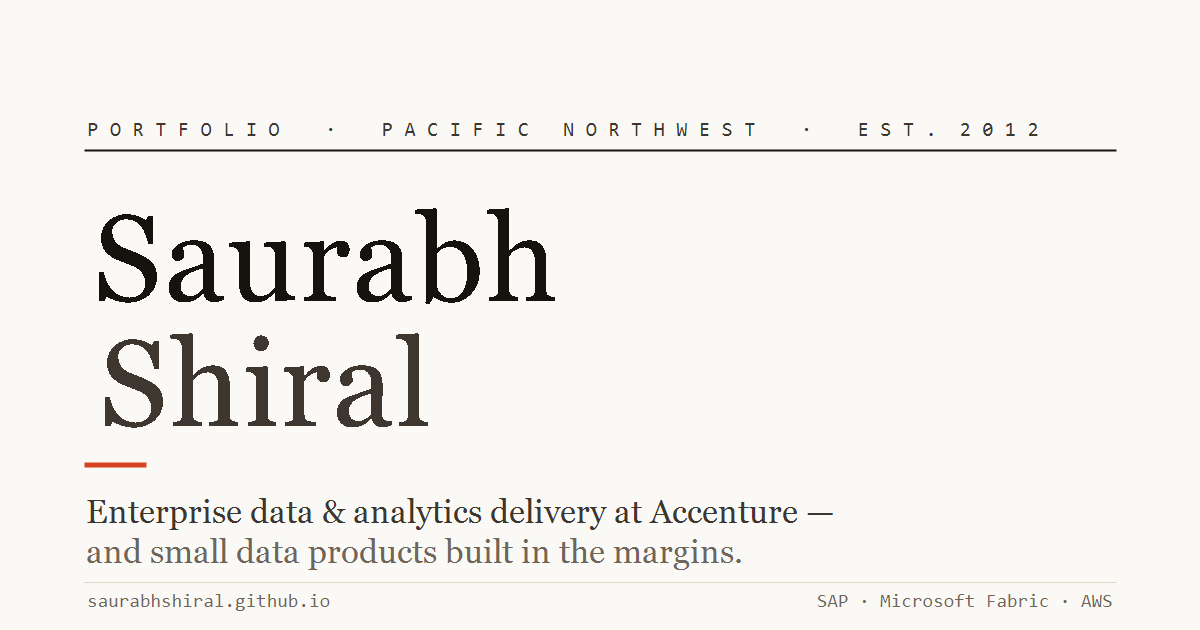
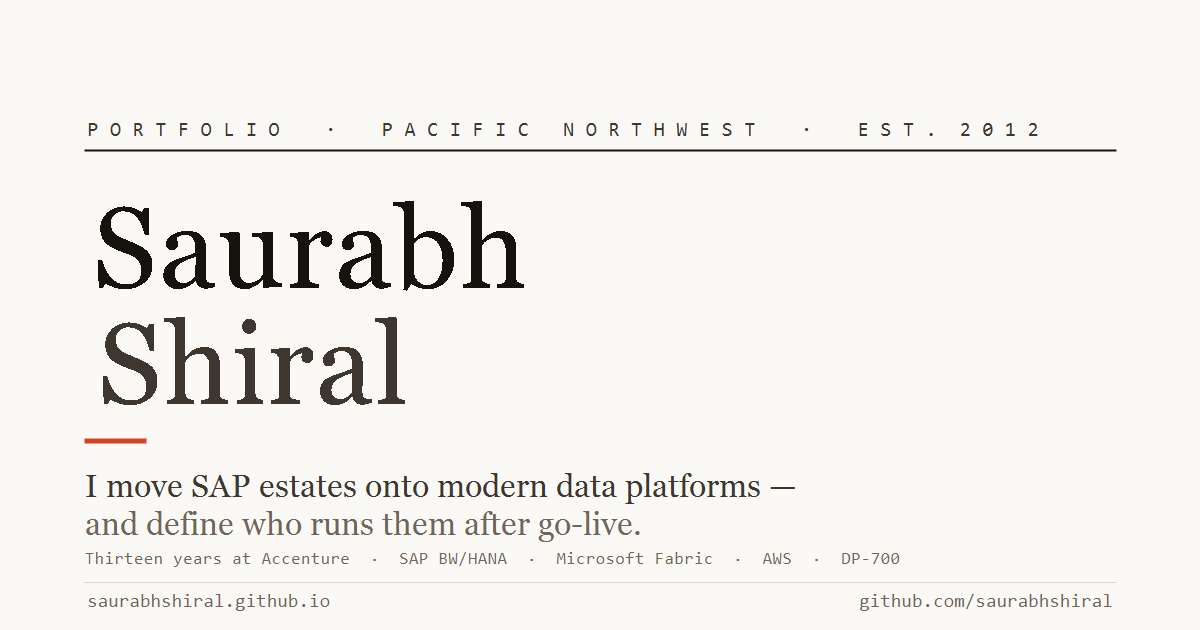
Adopt the Build + Run positioning across the site
The site said "enterprise data and analytics delivery", which is the lane
everyone is in. The scarce claim is narrower and it now leads:

  I move SAP estates onto modern data platforms —
  and define who runs them after go-live.

Plenty of people can migrate off BW. Owning the operating model that runs the
result — the support model, the run cost, the governance, the DR posture — is
the part that is hard to hire, and it does not expire when the BW wave ends
around 2030.

- standfirst carries the claim, held at 44 words so the fold fix still holds
- About gains a paragraph making the build-vs-run distinction explicit
- masthead Practice fact, practice-section deck, title, description, OG tags
  and JSON-LD jobTitle all realigned
- OG image redrawn with the claim as its subhead

Verified: zero overflow at 320-2275px, lede and facts clear the fold on every
landscape viewport, no client names, 14 disclosures intact.

diff --git a/index.html b/index.html
@@ -3,16 +3,16 @@
 <head>
 <meta charset="utf-8">
 <meta name="viewport" content="width=device-width, initial-scale=1">
-<title>Saurabh Shiral — Data &amp; analytics delivery, Accenture</title>
-<meta name="description" content="Saurabh Shiral is an Associate Manager at Accenture in Bothell, Washington — thirteen years in enterprise data and analytics, from SAP BW pipelines to running a modernisation programme across four countries. Plus a shelf of small data products built in the margins.">
+<title>Saurabh Shiral — SAP to modern data platforms, and the run models behind them</title>
+<meta name="description" content="Saurabh Shiral moves SAP estates onto modern data platforms — and defines who runs them after go-live. Thirteen years of enterprise data and analytics at Accenture, Bothell WA. Plus a shelf of small data products built in the margins.">
 <meta name="author" content="Saurabh Shiral">
 <meta name="theme-color" content="#FBF9F5" media="(prefers-color-scheme: light)">
 <meta name="theme-color" content="#14120F" media="(prefers-color-scheme: dark)">
 <link rel="canonical" href="https://saurabhshiral.github.io/">
 
 <meta property="og:type" content="profile">
-<meta property="og:title" content="Saurabh Shiral — Data &amp; analytics delivery">
-<meta property="og:description" content="Thirteen years in enterprise data and analytics at Accenture, and a shelf of small data products built in the margins.">
+<meta property="og:title" content="Saurabh Shiral — SAP migration &amp; the run models behind it">
+<meta property="og:description" content="I move SAP estates onto modern data platforms — and define who runs them after go-live. Thirteen years at Accenture, plus small data products built in the margins.">
 <meta property="og:url" content="https://saurabhshiral.github.io/">
 <meta property="og:image" content="https://saurabhshiral.github.io/assets/img/og.png">
 <meta property="og:image:width" content="1200">
@@ -31,7 +31,7 @@
   "@context": "https://schema.org",
   "@type": "Person",
   "name": "Saurabh Shiral",
-  "jobTitle": "Associate Manager — Data & Analytics",
+  "jobTitle": "Associate Manager — Data & Analytics Delivery",
   "worksFor": { "@type": "Organization", "name": "Accenture" },
   "address": { "@type": "PostalAddress", "addressLocality": "Bothell", "addressRegion": "WA", "addressCountry": "US" },
   "url": "https://saurabhshiral.github.io/",
@@ -118,14 +118,13 @@
 
   <div class="masthead__foot">
     <p class="standfirst">
-      Thirteen years of enterprise data and analytics at Accenture — from writing SAP BW
-      pipelines to running the platform and the team behind it. In the margins I build small,
-      finished things: a disaster-recovery drill with a leaderboard, a map of what a country is
-      breathing.
+      I move SAP estates onto modern data platforms — and define who runs them after go-live.
+      Thirteen years of that at Accenture. In the margins I build small, finished things: a
+      disaster-recovery drill with a leaderboard, a map of what a country is breathing.
     </p>
     <dl class="masthead__facts">
       <div><dt>Role</dt><dd>Associate Manager, Accenture</dd></div>
-      <div><dt>Practice</dt><dd>Data &amp; analytics · SAP · Microsoft Fabric</dd></div>
+      <div><dt>Practice</dt><dd>Migration &amp; run models · SAP · Microsoft Fabric</dd></div>
       <div><dt>Based</dt><dd>Bothell, Washington</dd></div>
       <div><dt>Sectors</dt><dd>Utilities · Energy · Manufacturing · Pharma</dd></div>
     </dl>
@@ -151,10 +150,16 @@
 
     <div class="prose prose--dropcap" data-reveal>
       <p>Thirteen years, one employer, six clients. I joined Accenture in 2012 as an SAP BW
-      developer and have spent the time since in enterprise data and analytics — moving from
-      building the pipelines to owning how a platform gets run. These days I lead application
-      managed services for a Pacific Northwest utility: production support and modernisation across
-      SAP BW/HANA, AWS and Microsoft Fabric, with a team spread over four countries.</p>
+      developer and have spent the time since inside enterprise data estates — long enough to read
+      a grown legacy landscape and tell you which parts of it should never be migrated at all.
+      These days I lead a multi-wave SAP BW to Microsoft Fabric migration for a Pacific Northwest
+      utility, with a team spread over four countries.</p>
+
+      <p>Migration is the easy half. The question I find more interesting is what happens after
+      cutover: who supports this at 2am on the Monday after go-live, what it costs, and how anyone
+      knows it is healthy. So I co-authored the operating model that answers that for my account,
+      co-led a live disaster-recovery failover and wrote the lessons-learned, and kept production
+      reporting running through the whole migration without missing a close.</p>
 
       <p>Enterprise data work teaches you a particular respect for boring problems. A failover that
       has never been rehearsed. A weekly report nobody reads because it takes an hour to assemble.
@@ -521,8 +526,9 @@
   <div class="section__head" data-reveal>
     <p class="rubric">§ 04</p>
     <h2 class="section__title" id="practice-h">The practice</h2>
-    <p class="section__deck">Thirteen years, one employer, six engagements. Clients are described
-    by sector rather than named — they are Accenture's to announce, not mine.</p>
+    <p class="section__deck">Thirteen years, one employer, six engagements — developer to
+    delivery lead, build to build-and-run. Clients are described by sector rather than named;
+    they are Accenture's to announce, not mine.</p>
   </div>
 
   <ol class="ledger ledger--practice" data-reveal>
